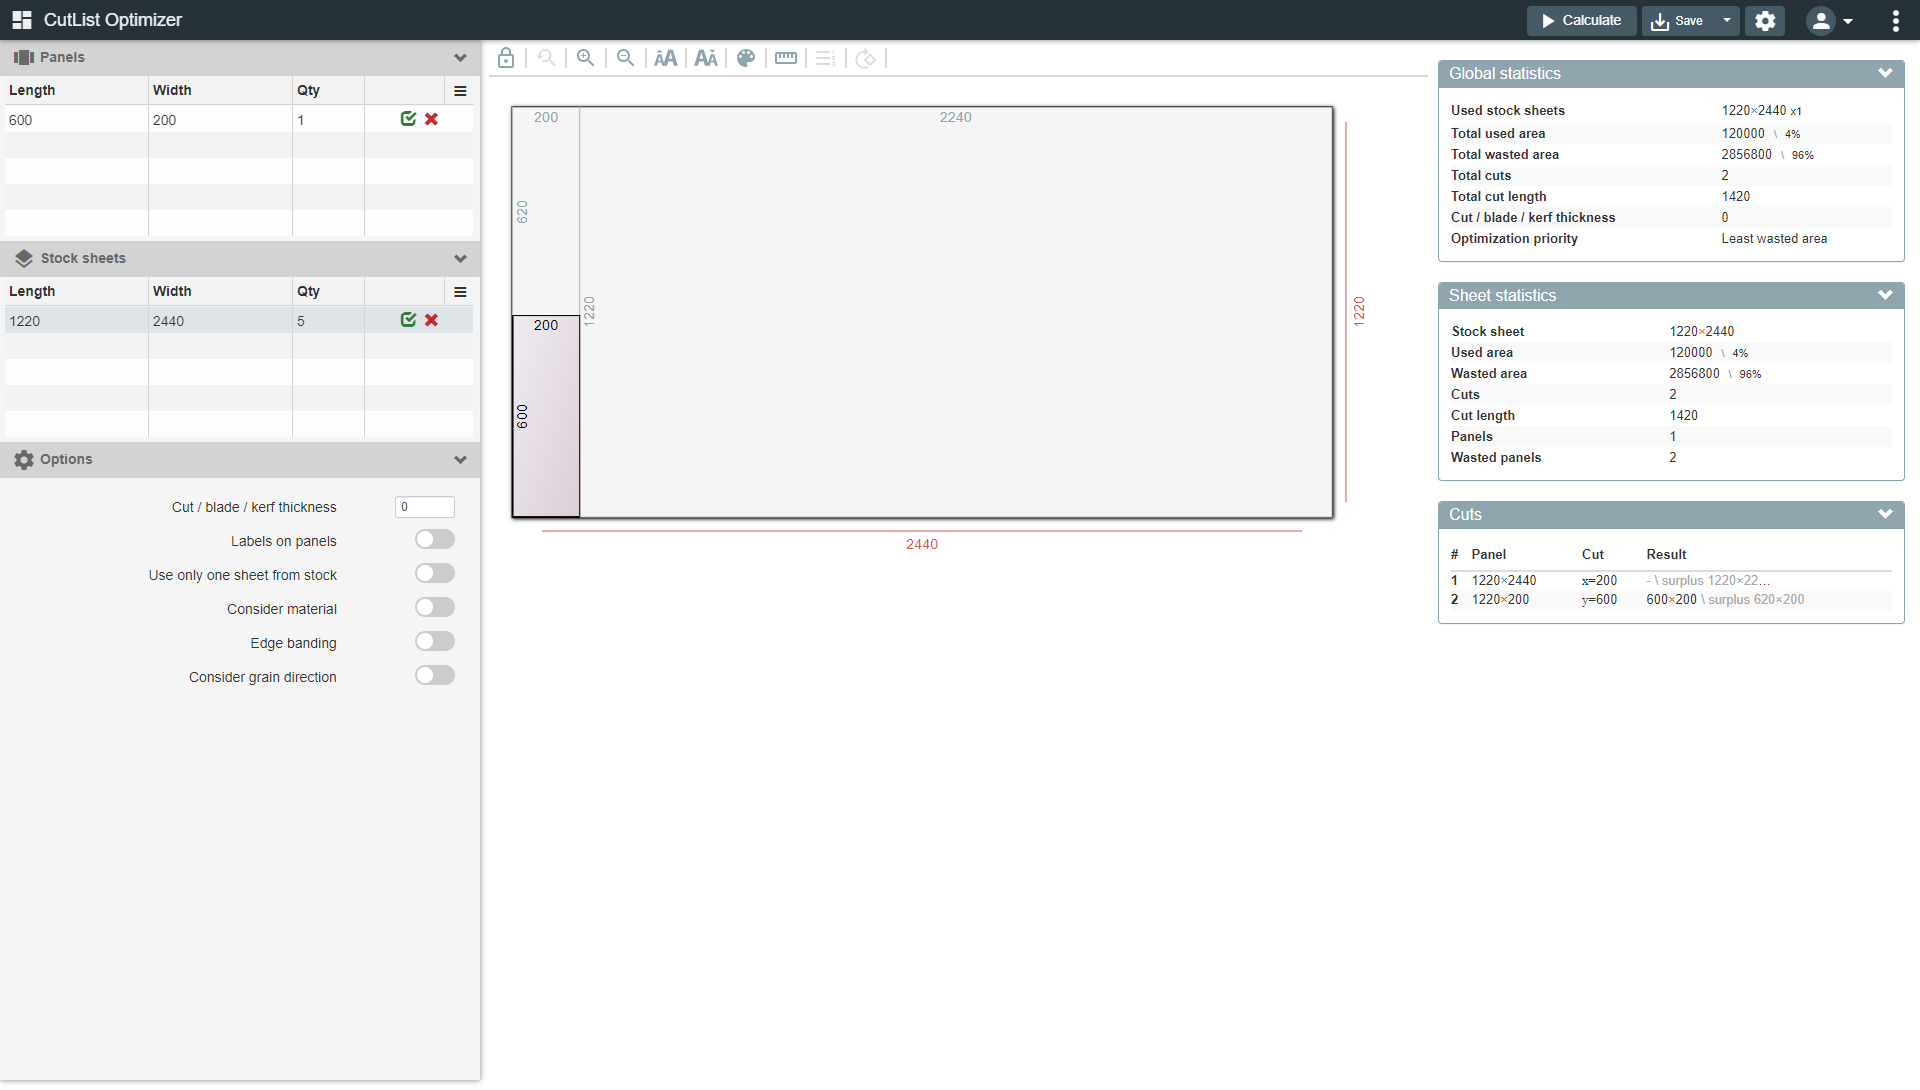
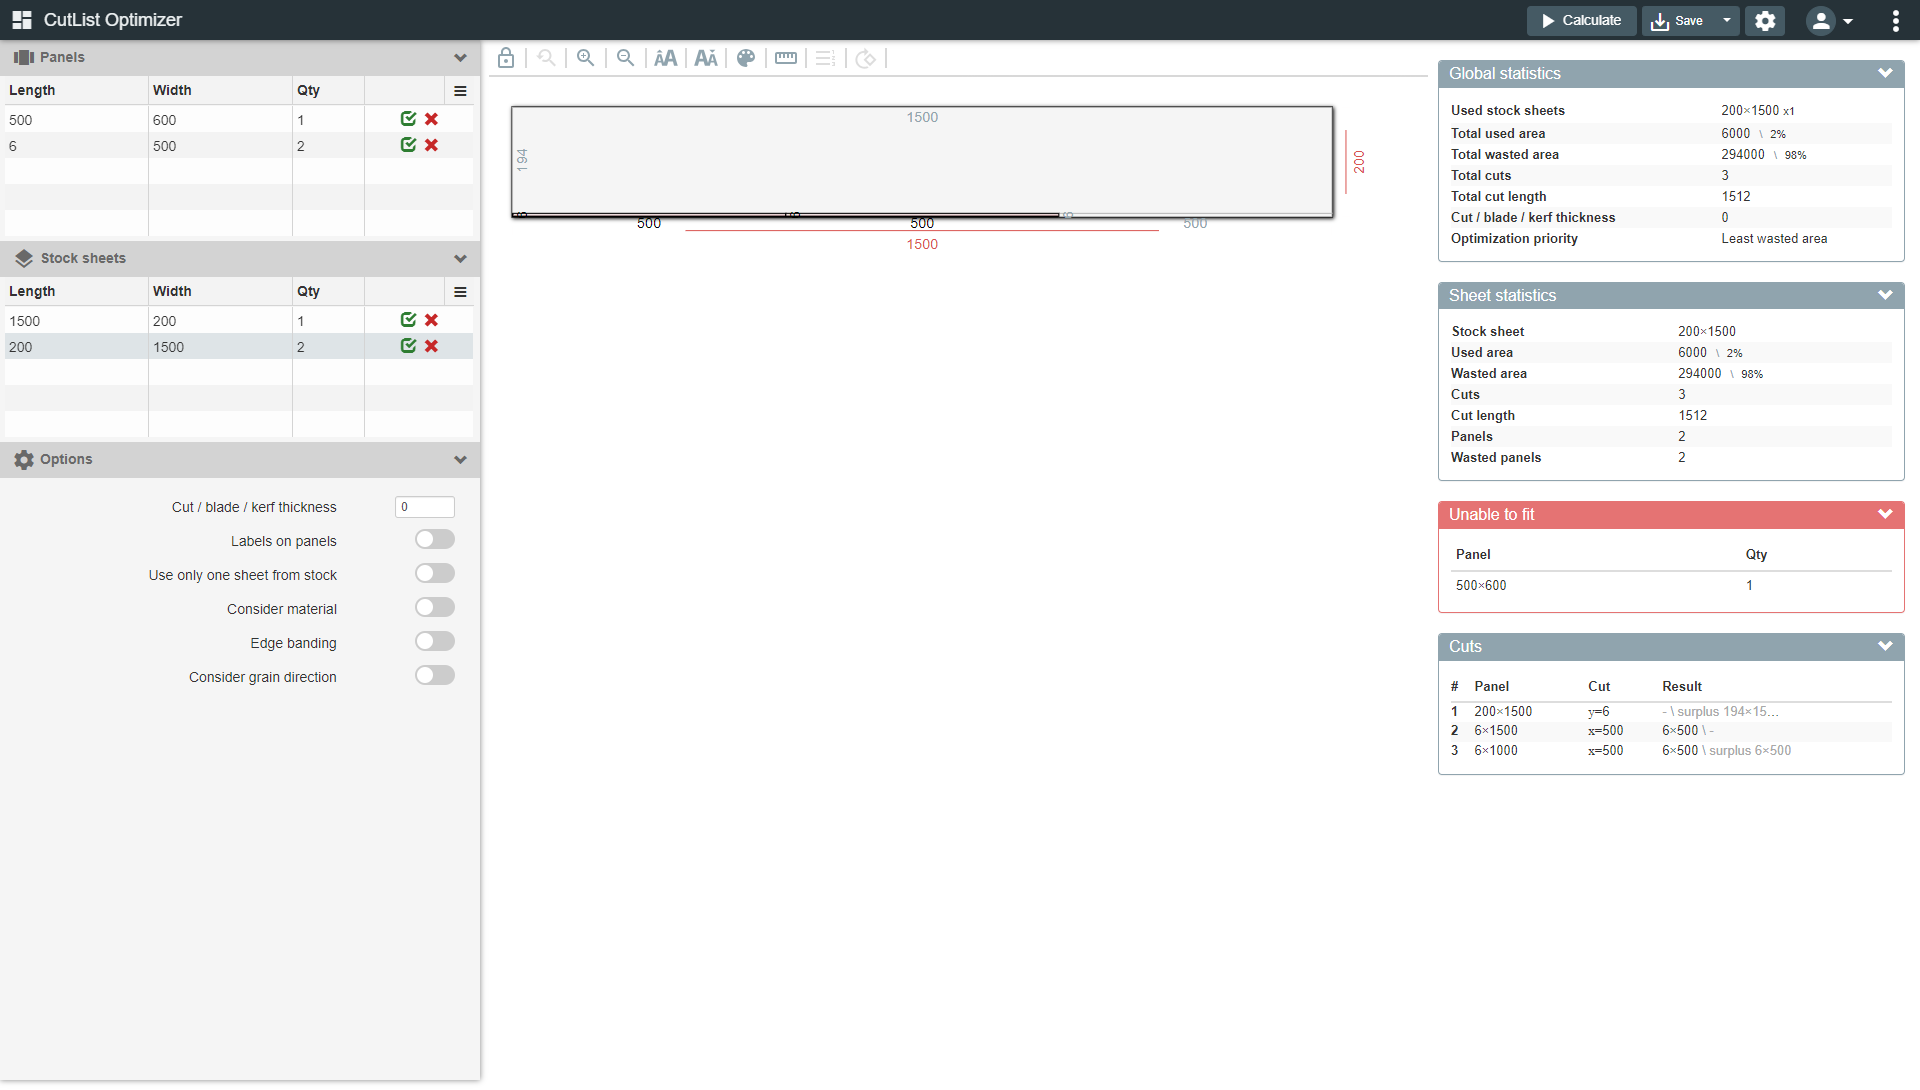
connect to app.js done

diff --git a/app.js b/app.js
@@ -1,7 +1,16 @@
-const express = require('express')
-const cors = require('cors')
-const app = express()
-const port = 3000
+const express = require('express');
+const cors = require('cors');
+const puppeteer = require('puppeteer');
+const cloudinary = require('cloudinary').v2;
+const app = express();
+const port = 3000;
+
+// Configure your Cloudinary credentials
+cloudinary.config({
+  cloud_name: 'dj3qabx11',
+  api_key: '533762782692462',
+  api_secret: 'YcvSAvEFsEu-rZyhKmLnI3bQ5KQ'
+});
 
 // Set up middleware to parse JSON request bodies
 app.use(express.json());
@@ -14,17 +23,195 @@ app.use(cors({
 }));
 
 app.get('/', (req, res) => {
-  res.send('Hello World!')
-})
+  res.send('Hello World!');
+});
 
-app.post('/design-data', async(req, res) =>{
-  console.log(req.body)
+// Define the Puppeteer function
+const runPuppeteer = async (panelsData, stockSheetsData) => {
+  const browser = await puppeteer.launch({ headless: false });
+  const page = await browser.newPage();
 
-  res.status(200).json({
-    yourDesignLink: "https://res.cloudinary.com/deqyxkw0y/image/upload/v1712413532/cld-sample-4.jpg"
-  })
-})
+  // Set the viewport to the full screen size
+  const screenSize = { width: 1920, height: 1080 };
+
+  // Navigate to the website
+  await page.goto('https://www.cutlistoptimizer.com/', { waitUntil: 'networkidle2' });
+
+  // Wait for the main grid container to load
+  await page.waitForSelector('#tiles-grid');
+  await page.waitForSelector('#stock-sheets-input');
+
+  const clickAndType = async (cell, text) => {
+    for (let attempt = 0; attempt < 5; attempt++) {
+      try {
+        await cell.click();
+        await page.keyboard.down('Control');
+        await page.keyboard.press('a');
+        await page.keyboard.up('Control');
+        await page.keyboard.press('Backspace');
+        await page.keyboard.type(text);
+        const enteredText = await page.evaluate(cell => cell.textContent.trim(), cell);
+        if (enteredText === text) {
+          console.log(`Successfully entered ${text}`);
+          break;
+        } else {
+          console.log(`Entered text "${enteredText}" does not match expected "${text}". Retrying...`);
+          await retryClearAndType(cell, text);
+        }
+      } catch (error) {
+        console.log(`Attempt ${attempt + 1} failed to click and type. Retrying...`);
+      }
+    }
+  };
+
+  // Function to retry clearing and typing the text
+const retryClearAndType = async (cell, text) => {
+  try {
+    // await cell.click(); // Click to focus the input field
+    await page.keyboard.down('Control');
+    await page.keyboard.press('a'); // Select all text
+    await page.keyboard.up('Control');
+    await page.keyboard.press('Backspace');
+    await page.keyboard.type(text); 
+  } catch (error) {
+    console.log(`Retry attempt failed. Retrying...`);
+  }
+};
+
+  const processGrid = async (gridSelector, data) => {
+    for (let rowIndex = 0; rowIndex < data.length; rowIndex++) {
+      const cells = await page.$$(`${gridSelector} .ui-grid-row:nth-child(${rowIndex + 1}) .ui-grid-cell-contents`);
+      if (cells.length >= 3) {
+        console.log(`Processing row ${rowIndex + 1} in ${gridSelector}`);
+        await clickAndType(cells[0], data[rowIndex][0]);
+        await clickAndType(cells[1], data[rowIndex][1]);
+        await clickAndType(cells[2], data[rowIndex][2]);
+
+        const cell1Text = await page.evaluate(cell => cell.textContent.trim(), cells[0]);
+        const cell2Text = await page.evaluate(cell => cell.textContent.trim(), cells[1]);
+        const cell3Text = await page.evaluate(cell => cell.textContent.trim(), cells[2]);
+
+        console.log(`Row ${rowIndex + 1} in ${gridSelector} - Length cell: ${cell1Text}, Width cell: ${cell2Text}, Qty cell: ${cell3Text}`);
+      } else {
+        console.error('Not enough cells found in row ' + (rowIndex + 1));
+      }
+    }
+  };
+
+  const clickCalculateButton = async () => {
+    try {
+      const calculateButton = await page.$('#calculate-btn button[ng-click="submitTask()"]:not(.ng-hide)');
+      if (calculateButton) {
+        await calculateButton.click();
+        console.log('Clicked the Calculate button');
+      } else {
+        console.error('Calculate button not found');
+      }
+    } catch (error) {
+      console.error('Failed to click the Calculate button:', error);
+    }
+  };
+
+  const clickAcceptButton = async () => {
+    try {
+      const acceptButton = await page.$('button[ng-click="stopTask()"]:not(.ng-hide)');
+      if (acceptButton) {
+        await acceptButton.click();
+        console.log('Clicked the Accept button');
+      } else {
+        console.error('Accept button not found');
+      }
+    } catch (error) {
+      console.error('Failed to click the Accept button:', error);
+    }
+  };
+
+  const typeForEmail = async (cell, text) => {
+    for (let attempt = 0; attempt < 5; attempt++) {
+      try {
+        await cell.click();
+        await page.keyboard.down('Control');
+        await page.keyboard.press('a');
+        await page.keyboard.up('Control');
+        await page.keyboard.press('Backspace');
+        await page.keyboard.type(text);
+        const enteredText = await page.evaluate(cell => cell.value.trim(), cell);
+        if (enteredText === text) {
+          console.log(`Successfully entered ${text}`);
+          break;
+        } else {
+          console.log(`Entered text "${enteredText}" does not match expected "${text}". Retrying...`);
+        }
+      } catch (error) {
+        console.log(`Attempt ${attempt + 1} failed to click and type. Retrying...`);
+      }
+    }
+  };
+
+  const clickGotItButton = async () => {
+    try {
+      const gotItButton = await page.$('.cc-btn.cc-dismiss[aria-label="dismiss cookie message"]');
+      if (gotItButton) {
+        await gotItButton.click();
+        console.log('Clicked the "Got it!" button for cookies');
+      } else {
+        console.error('"Got it!" button for cookies not found');
+      }
+    } catch (error) {
+      console.error('Failed to click the "Got it!" button for cookies:', error);
+    }
+  };
+
+  await processGrid('#tiles-grid', panelsData);
+  await processGrid('#stock-tiles-grid', stockSheetsData);
+  await clickGotItButton();
+  await clickCalculateButton();
+
+  await page.waitForSelector('input[placeholder="Email"]', { visible: true });
+  await page.waitForSelector('input[placeholder="Password"]', { visible: true });
+
+  await typeForEmail(await page.$('input[placeholder="Email"]'), 'Ssingh@365aitech.com');
+  await typeForEmail(await page.$('input[placeholder="Password"]'), 'Password@123!');
+
+  await page.click('button[ng-click="login();"]');
+
+  await new Promise(resolve => setTimeout(resolve, 5000));
+
+  await clickCalculateButton();
+  await new Promise(resolve => setTimeout(resolve, 5000));
+  await clickAcceptButton();
+
+  await page.setViewport(screenSize);
+  await new Promise(resolve => setTimeout(resolve, 10000));
+
+  const screenshotPath = 'full_screenshot.png';
+  await page.screenshot({ path: screenshotPath, fullPage: true });
+
+  console.log(`Screenshot taken: ${screenshotPath}`);
+
+  const result = await cloudinary.uploader.upload(screenshotPath, { folder: 'screenshots' });
+  console.log(`Screenshot uploaded to Cloudinary: ${result.secure_url}`);
+
+  await browser.close();
+
+  return result.secure_url;
+};
+
+app.post('/design-data', async (req, res) => {
+  const { panels, stockSheet } = req.body;
+  console.log('panels', panels, stockSheet)
+  try {
+    const cloudinaryLink = await runPuppeteer(panels, stockSheet);
+    console.log('clu link', cloudinaryLink)
+    res.status(200).json({
+      yourDesignLink: cloudinaryLink
+    });
+  } catch (error) {
+    console.error('Error running Puppeteer:', error);
+    res.status(500).send('Error running Puppeteer');
+  }
+});
 
 app.listen(port, () => {
-  console.log(`Example app listening on port ${port}`)
-})
+  console.log(`Example app listening on port ${port}`);
+});
